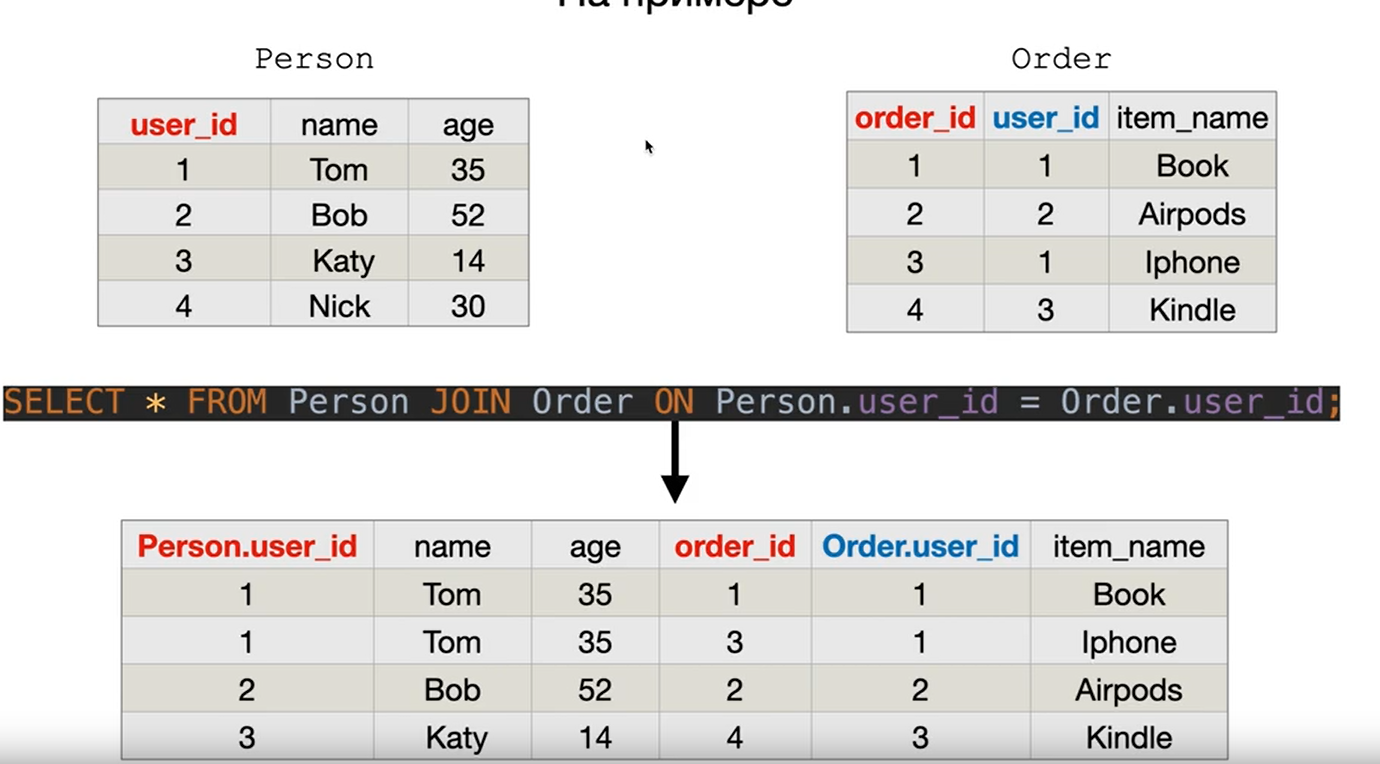
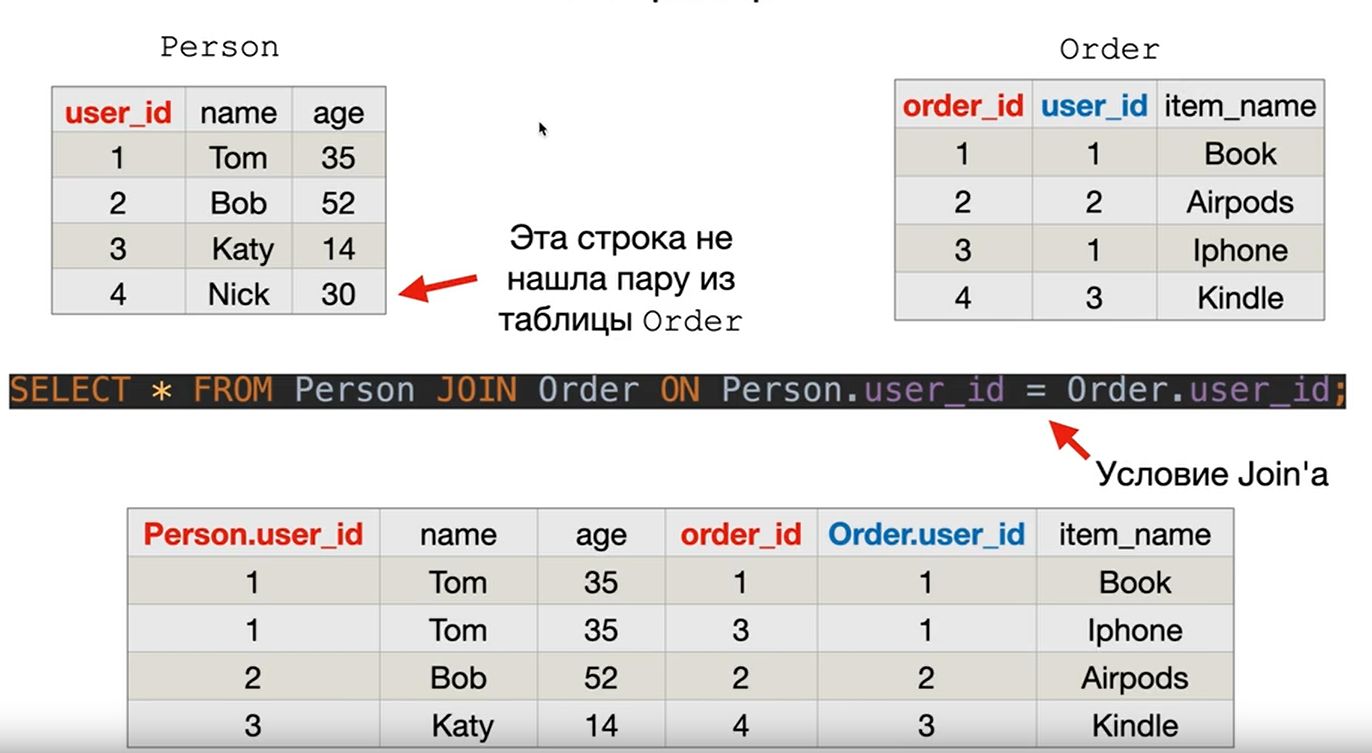
InitialCommit

diff --git a/README.md b/README.md
@@ -664,6 +664,10 @@ FROM Person P
 
 ![img_39.png](img_39.png)
 
+Стоит заметить, что поле Nick не нашло себе пары, поэтому JOIN его проигнорировал.
+
+![img_40.png](img_40.png)
+
 ### CROSS JOIN
 
 *CROSS JOIN представляет из себя перекрёстное соединение набора строк, где каждая строка из одной таблицы соединяется с каждой строкой из второй таблицы.*
@@ -674,3 +678,30 @@ FROM Person AS P
          CROSS JOIN
      Order_ AS O;
 ```
+
+### LEFT OUTER JOIN
+
+*Возвращает все строки таблицы в левой части соединения и соответствующие строки для таблицы в правой части соединения. **Строки, для которых нет соответствующей строки с правой стороны, результирующий набор будет содержать null.***
+
+![img_42.png](img_42.png)
+
+```postgresql
+SELECT *
+FROM Person P
+         LEFT JOIN Order_ O on P.user_id = O.user_id;
+```
+
+![img_41.png](img_41.png)
+
+### RIGHT OUTER JOIN
+
+![img_43.png](img_43.png)
+
+### FULL OUTER JOIN
+
+*Является объединением запросов LEFT OUTER JOIN и RIGHT OUTER JOIN.*
+
+### Отличие CROSS JOIN от FULL OUTER JOIN
+
+FULL OUTER JOIN соединяет одну строку первой таблицы с определённой строкой второй таблицы, а при CROSS JOIN каждая строка одной таблицы соединяется с каждой строкой другой таблицы.
+
